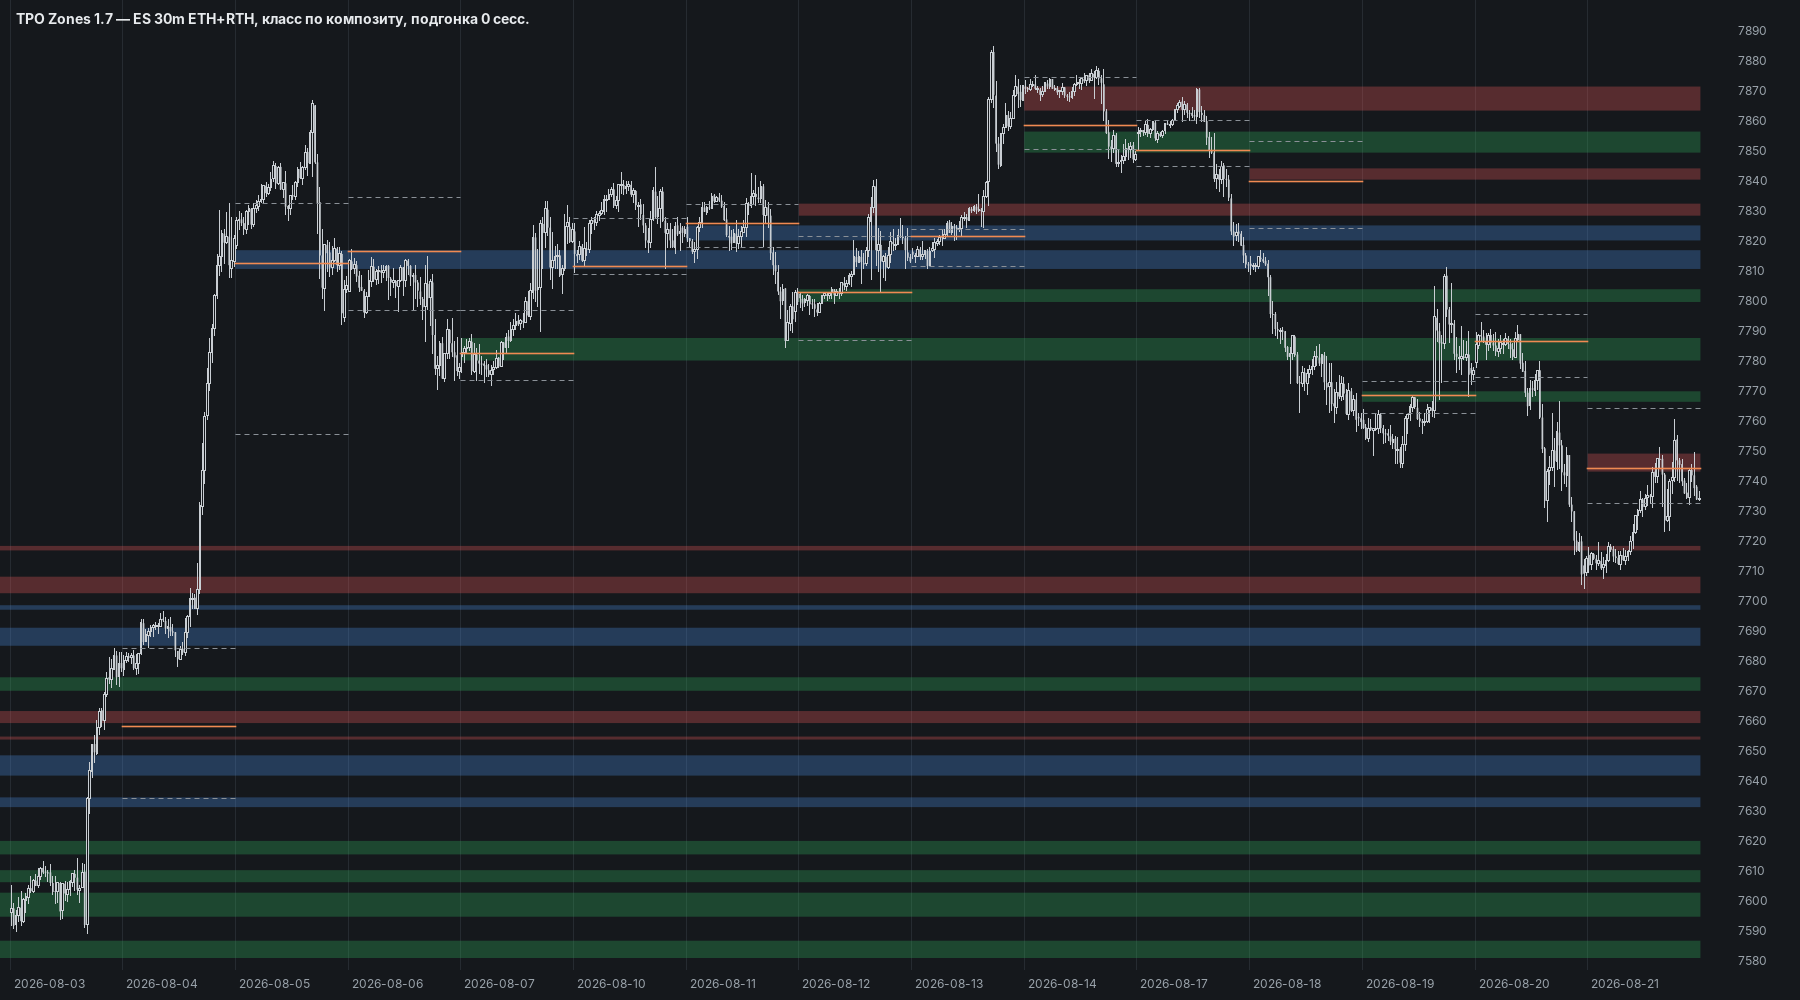
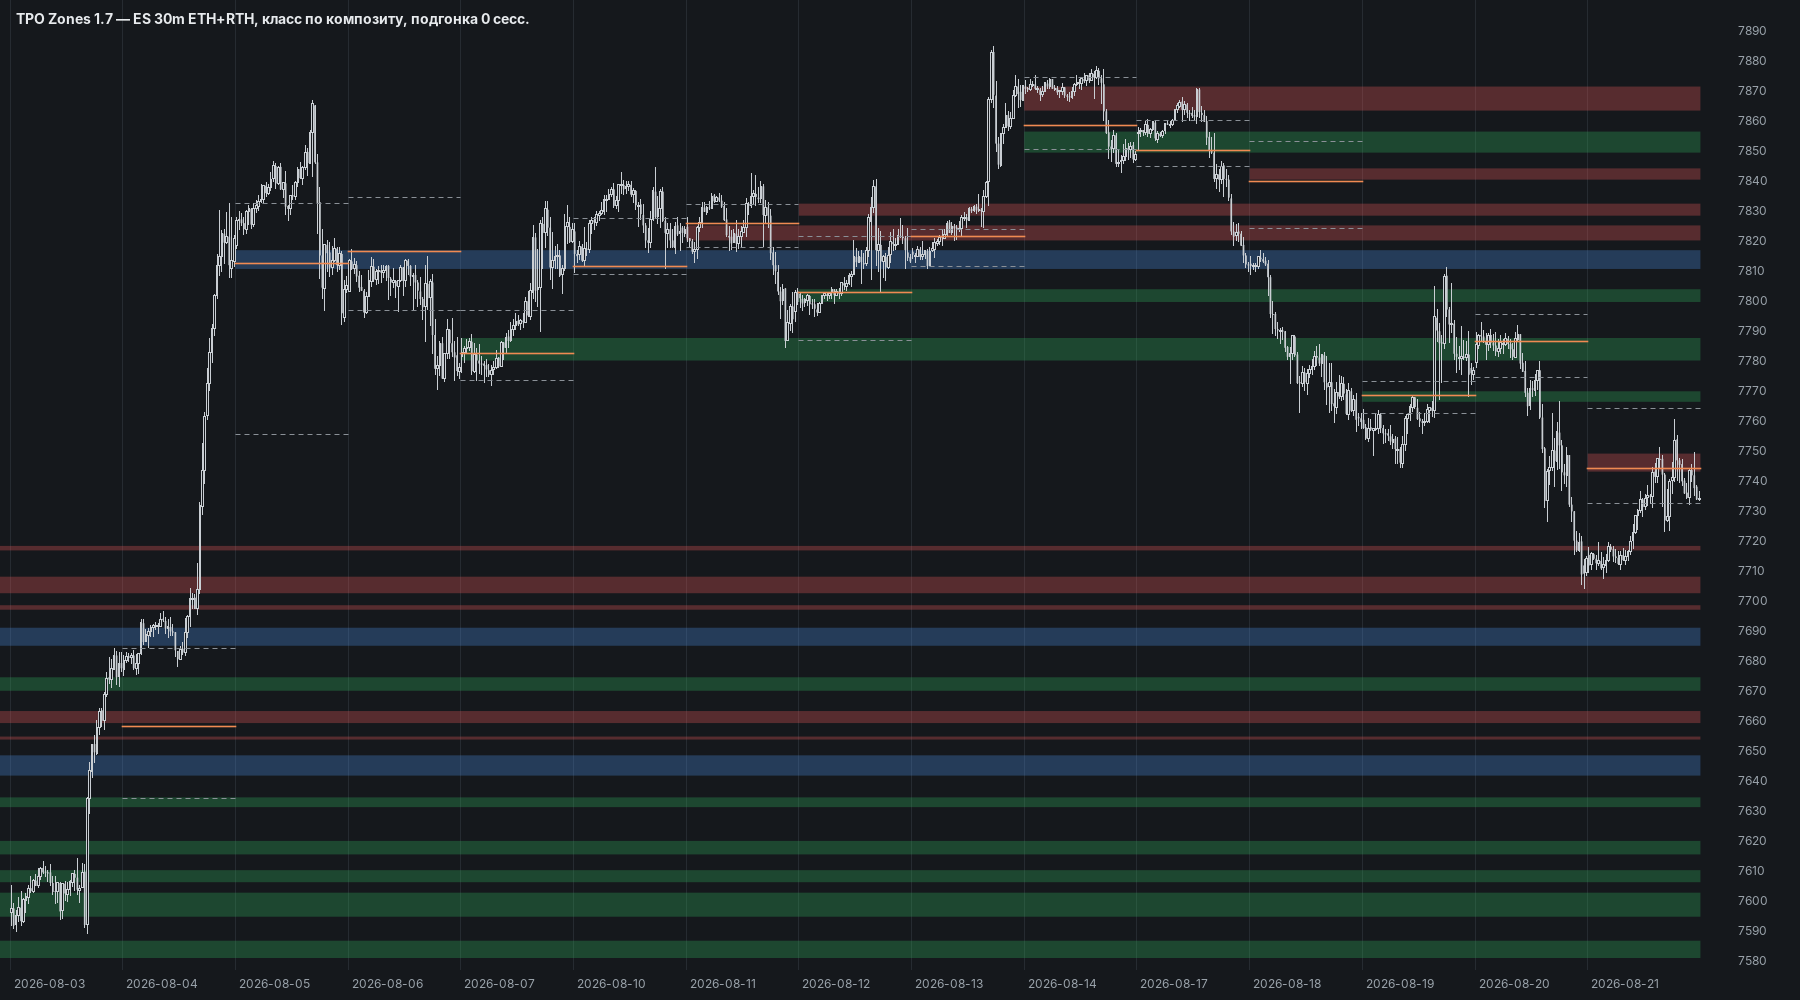
Blue only for zones touching the composite core, on by default
Blue used to cover the whole composite body core (rows >= 65% of max
TPO), up to 50 pts for a flat profile: 09.06-12.06.2026 gave blue zones
in a row at 7307-7315, 7319-7327, 7340-7349 (ESM6). Now only zones
touching the core (<= 10 pts at the POC) are blue; the rest of the body
is red above / green below the core middle. Blue bands over 40 pts 9 ->
1; red 19 -> 25, green 31 -> 34; colour match 34% -> 32%. Jar rebuilt,
SDK calls unchanged.

Claude-Session: https://claude.ai/code/session_01PTkojwxsX3jzc4BttC3Khg

Changed region(s): [[0.0, 0.775, 0.9644, 0.806], [0.0, 0.589, 0.9333, 0.62], [0.3733, 0.217, 0.9644, 0.248]]

diff --git a/motivewave/src/patterns/zones/TpoZonesStudy.java b/motivewave/src/patterns/zones/TpoZonesStudy.java
@@ -97,7 +97,7 @@ public class TpoZonesStudy extends Study {
         g.addRow(new DoubleDescriptor(FIT_B, "Подгонка по телам: меньше доли максимума тел свечей — пустота (0 — без подгонки)", 0.20, 0, 0.8, 0.05));
         g.addRow(new BooleanDescriptor(SESS, "Зоны из сессий: узлы RTH TPO дня, подогнанные по телам; композит задаёт роль и один раз перекрашивает", true));
         g.addRow(new DoubleDescriptor(S_GAP, "Сессионные зоны: узел ближе, п., к существующей зоне — её подтверждение (зазор между зонами)", 3.0, 0, 20, 0.5));
-        g.addRow(new BooleanDescriptor(CORE_TOUCH, "Сессионные зоны: синяя — только зона, задевающая ядро композита (≤ 10 п.), а не всё ядро тела", false));
+        g.addRow(new BooleanDescriptor(CORE_TOUCH, "Сессионные зоны: синяя — только зона, задевающая ядро композита (≤ 10 п.), а не всё ядро тела", true));
         g.addRow(new BooleanDescriptor(REFINE, "Сессионные зоны: уточнение — внутри узла пошире все скопления тел свечей, каждое — зона (выкл. — одно скопление)", true));
         g.addRow(new DoubleDescriptor(S_SHARE, "Сессионные зоны: узел — вершина не ниже доли главного узла дня", 0.5, 0, 1, 0.05));
         g.addRow(new IntegerDescriptor(S_PEAK, "Сессионные зоны: вершина узла от, TPO", 3, 1, 13, 1));
@@ -310,7 +310,7 @@ public class TpoZonesStudy extends Study {
         p.sessMinPeak = st.getInteger(S_PEAK, 3);
         p.sessMinGapPts = st.getDouble(S_GAP, 3.0);
         p.sessRefine = st.getBoolean(REFINE, true);
-        p.sessCoreTouch = st.getBoolean(CORE_TOUCH, false);
+        p.sessCoreTouch = st.getBoolean(CORE_TOUCH, true);
         p.sessPeakShare = st.getDouble(S_SHARE, 0.5);
         p.sessBodyShare = st.getDouble(S_BODY, 0.5);
         p.clusterDip = st.getDouble(CL_DIP, 0.10);

diff --git a/motivewave/src/patterns/zones/ZoneEngine.java b/motivewave/src/patterns/zones/ZoneEngine.java
@@ -107,7 +107,7 @@ public final class ZoneEngine {
         public double sessMinGapPts = 3.0;        // узел ближе этого к существующей зоне (или пересекает её) — её подтверждение
         public boolean sessResyncLater = false;   // зону синхронизирует и более поздний композит, сложившийся на ней (роль — по последнему
                                                   // накрывшему); иначе — только первый композит после её рождения
-        public boolean sessCoreTouch = false;     // синяя — только зона, задевающая ядро композита (≤ 10 п.), а не всё ядро тела
+        public boolean sessCoreTouch = true;      // синяя — только зона, задевающая ядро композита (≤ 10 п.), а не всё ядро тела
         public boolean sessRefine = true;         // уточнение: мнимая зона пошире (строки узла ≥ sessParentShare вершины, ± 1 п.), внутри —
                                                   // все скопления тел свечей сессии (не одно), каждое — зона
         public double sessParentShare = 0.7;      // ... мнимая зона: строки профиля не ниже этой доли вершины узла

diff --git a/motivewave/README.md b/motivewave/README.md
@@ -53,6 +53,13 @@
 Цвет совпадает с ручной разметкой в 31% против 23%. Цена — сплошных полос одного цвета шире 40 п. больше:
 синих 8 (было 4), красных 18 (17), зелёных 30 (17): каждый снимок красит тело композита по положению.
 
+**Синяя — у ядра композита** (по умолчанию): синей становится только сессионная зона, задевающая ядро
+композита (полоса у POC до обрыва TPO, ≤ 10 п.); остальные зоны в теле композита — красные выше середины ядра,
+зелёные ниже. Раньше синим было всё «ядро тела» (строки ≥ 65% максимума TPO), у плоского профиля
+волатильного композита — до 50 п.: 09.06–12.06.2026 ядро тела ≈ 7286–7336 (ESM6), синие подряд 7307–7315,
+7319–7327, 7340–7349. Теперь синие 7307–7315 и 7319–7327 (задевают ядро 7311.5–7321.5). Синих полос шире
+40 п. 9 → 1, шире 20 п. 28 → 2; красных 19 → 25, зелёных 31 → 34; цвет с ручными 34% → 32%.
+
 **Уточнение зон** (по умолчанию): у каждого узла сессии — мнимая зона пошире (строки профиля не ниже 70%
 вершины узла, ± 1 п.; не рисуется), внутри — все скопления тел 30m-свечей сессии (вершина тел ≥ 50% максимума
 в мнимой зоне и ≥ 2 тел, разделены провалами), каждое — зона, подогнанная как раньше. Зоны из одной мнимой
